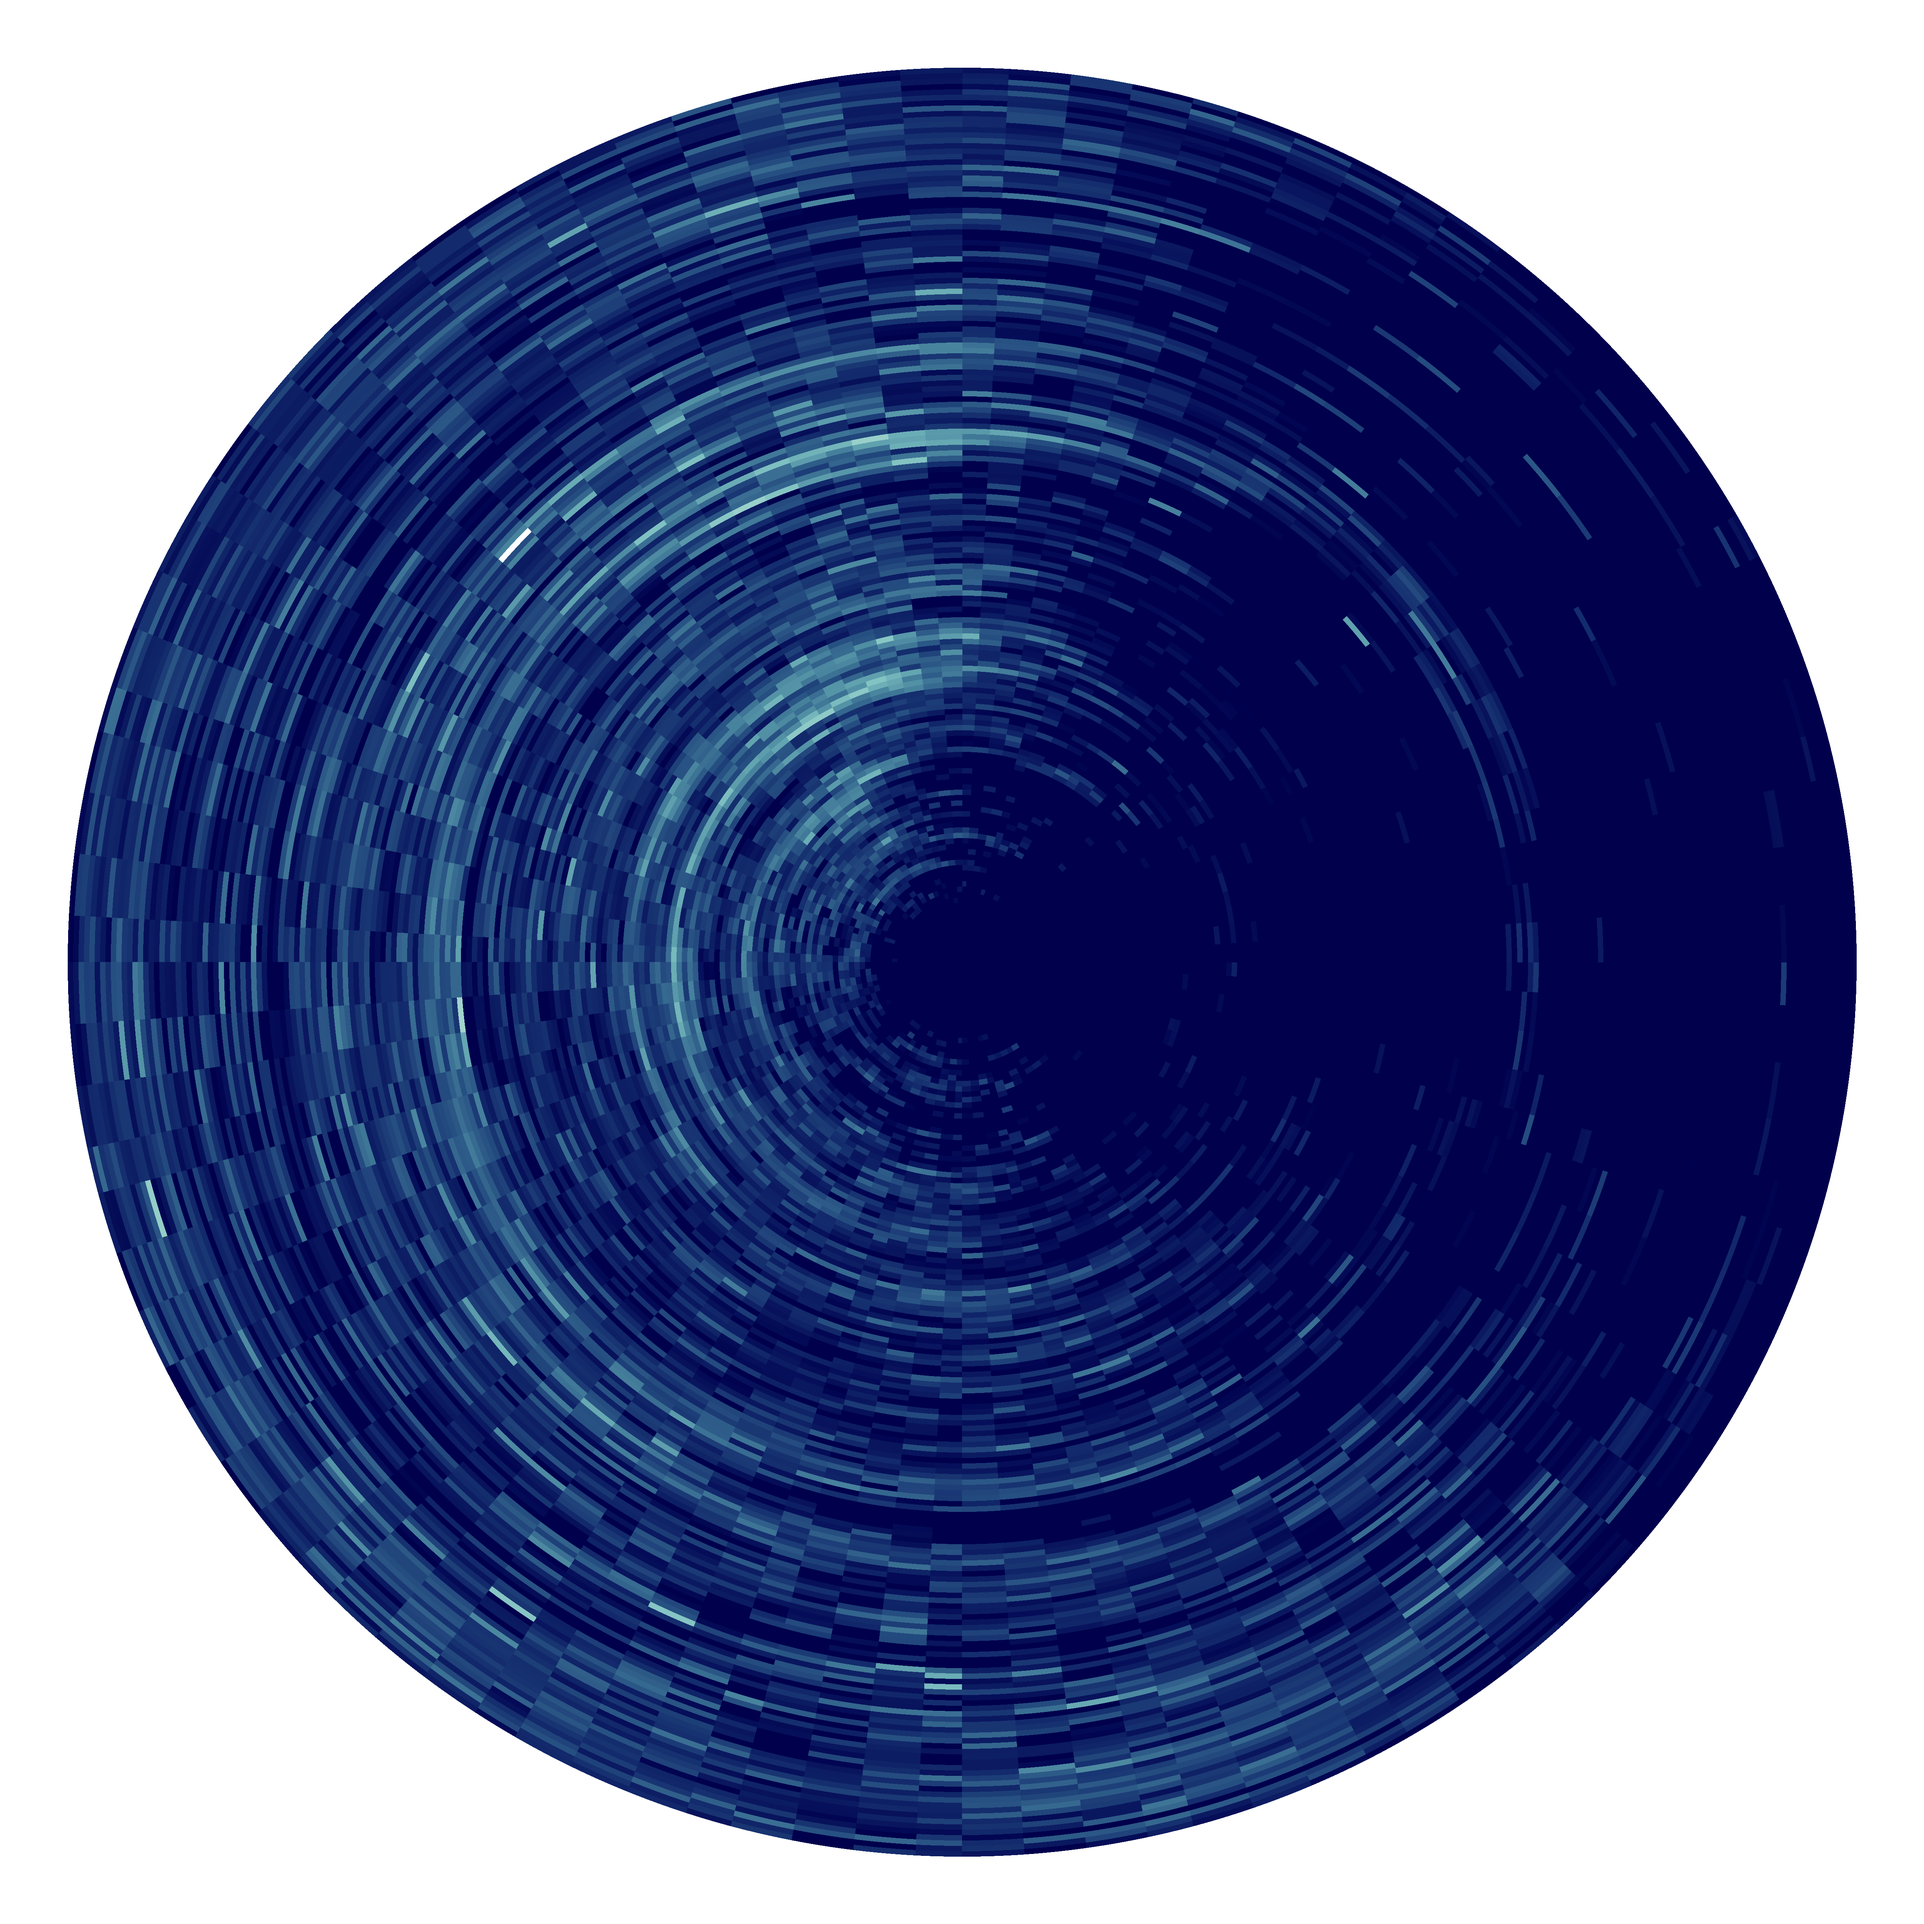
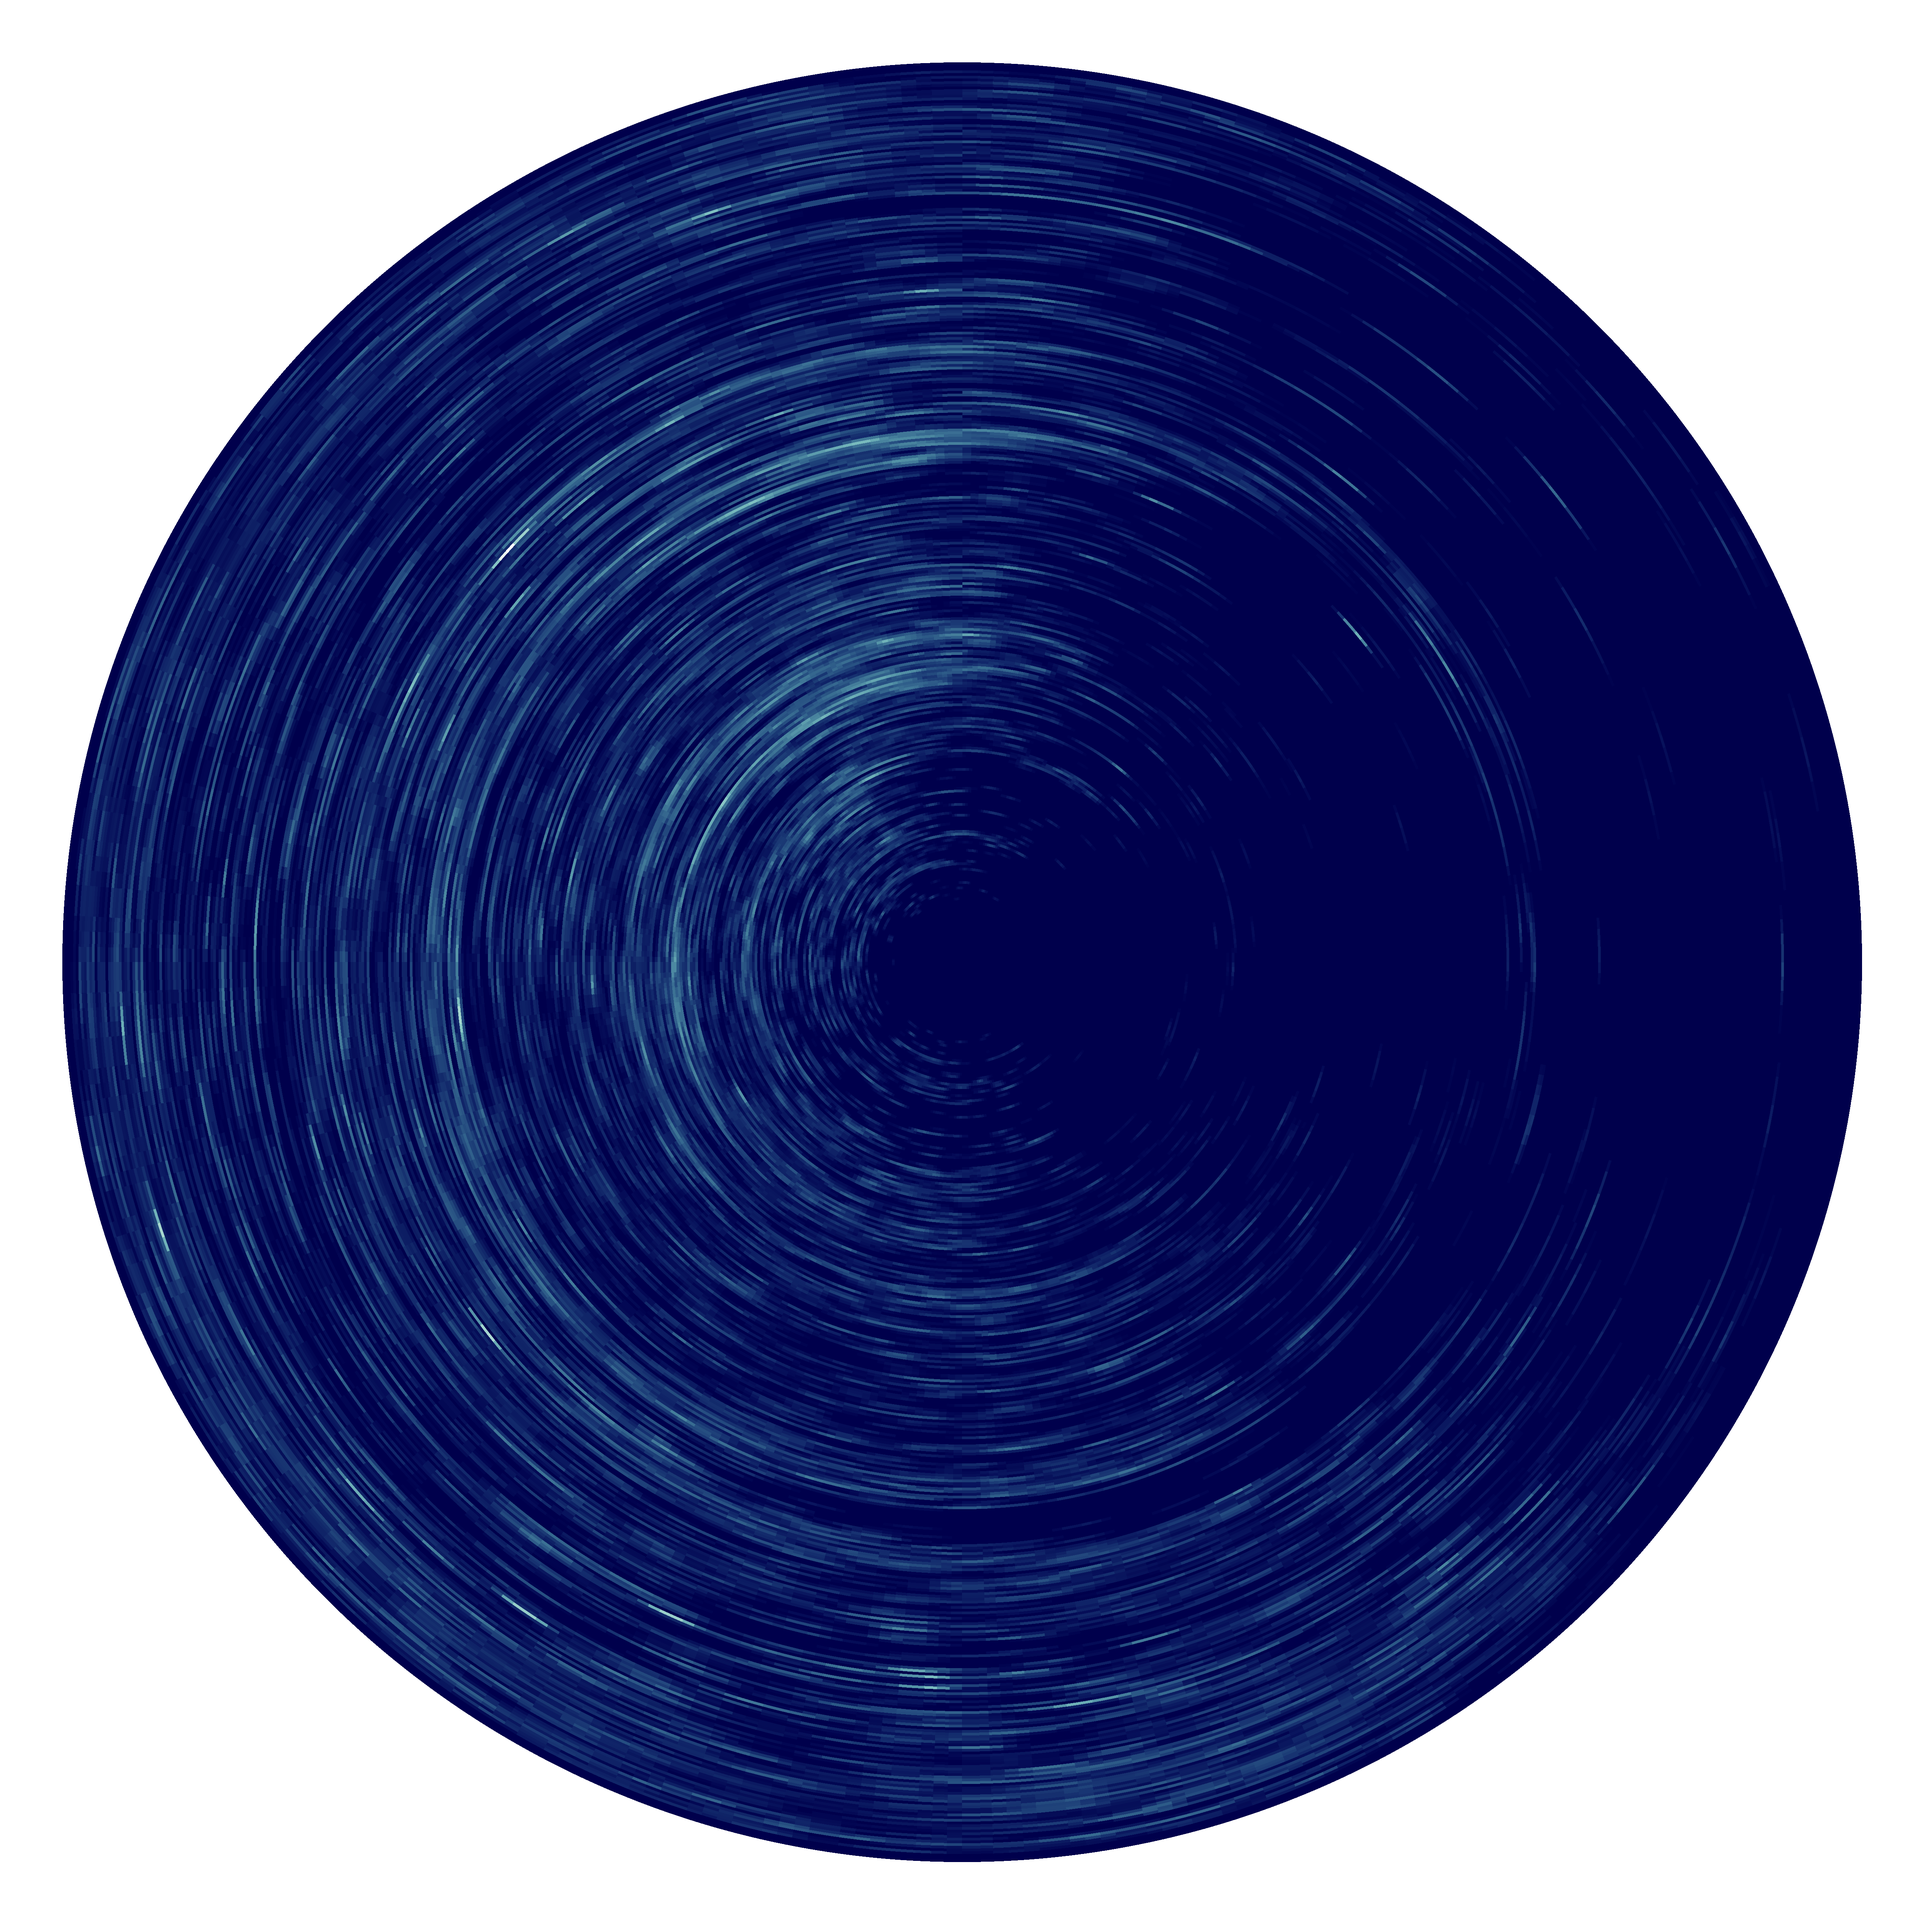
implemented a gaussian filter on the data

diff --git a/code/main.py b/code/main.py
@@ -4,6 +4,7 @@ from fb_HTML_parser import FB_HTMLParser
 import draw
 from datetime import datetime, timedelta
 from helper_fun import *
+from collections import OrderedDict
 import my_excepthook
 
 # The parsed data is saved, only if this is set to True the data will be parsed,
@@ -11,10 +12,16 @@ import my_excepthook
 NEW_PARSER = False
 
 # Number of days to sum up for one circle
-DAYS_PER_CIRCLE = 14
+DAYS_PER_CIRCLE = 7
 
 # Minutes to sum up to one segment of a circle
-DELTA_MINUTES = 15
+DELTA_MINUTES = 5
+
+# Blur of the data, to achieve better visualization
+BLUR = 1.0
+
+# Brightness
+BRIGHTNESS = 0.5
 
 def load_parser(new_parser, user_name):
     if(new_parser):
@@ -52,15 +59,21 @@ if __name__ == "__main__":
 
     data = parser.final_data
 
+    # Blur the data for aussagekrätigere visualization
+    data = gaus_blur(data, BLUR)
+
+    #### Sort data
+    # Get start and end date
     current_date = list(data.keys())[0]
     final_date = list(data.keys())[-1]
 
-    time_delta = timedelta(days=DAYS_PER_CIRCLE)
-    next_date = current_date + time_delta
+    # create variables for iteration over the days
+    day_delta = timedelta(days=DAYS_PER_CIRCLE)
+    next_date = current_date + day_delta
+    size_day = int(24*(60/DELTA_MINUTES))
 
     data_draw = {}
-    size_day = int(24*(60/DELTA_MINUTES))
-    data_draw[current_date] = dict.fromkeys([x*DELTA_MINUTES for x in range(0,size_day)], 0)
+    data_draw[current_date] = OrderedDict.fromkeys([x*DELTA_MINUTES for x in range(0,size_day)], 0)
 
     min_delta = timedelta(minutes=DELTA_MINUTES)
     current_day = current_date  # Start with the earliest date
@@ -70,19 +83,20 @@ if __name__ == "__main__":
         current_day += min_delta
         if current_day >= next_date:
             current_date = next_date
-            next_date += time_delta
-            data_draw[current_date] = dict.fromkeys([x*DELTA_MINUTES for x in range(0, size_day)], 0)
+            next_date += day_delta
+            data_draw[current_date] = OrderedDict.fromkeys([x*DELTA_MINUTES for x in range(0, size_day)], 0)
 
     # Remove last added date
     data_draw.pop(current_date, None)
+
     # Sort dictionary and minutes-dictionaries
     data_draw = OrderedDict(sorted(data_draw.items(), key=lambda t: t[0]))
-    for key, item in data_draw.items():
-        data_draw[key] = OrderedDict(sorted(item.items(), key=lambda t: t[0]))
+    #  for key, item in data_draw.items():
+        #  data_draw[key] = OrderedDict(sorted(item.items(), key=lambda t: t[0]))
 
     #  print("{" + "\n".join("{}: {}".format(k, v) for k, v in data_draw.items()) + "}")
 
-    draw.draw_dates_circle(data_draw, thickness=DAYS_PER_CIRCLE, col_pow=0.2)
+    draw.draw_dates_circle(data_draw, thickness=DAYS_PER_CIRCLE, col_pow=BRIGHTNESS)
 
     ####### Sum up weekdays
     #  data_days = {'Monday': 0, 'Tuesday': 0, 'Wednesday': 0, 'Thursday': 0, 'Friday': 0, 'Saturday': 0, 'Sunday': 0}

diff --git a/code/helper_fun.py b/code/helper_fun.py
@@ -3,6 +3,24 @@ import dateutil.parser
 from datetime import timedelta, datetime
 import pytz
 from collections import OrderedDict
+import numpy as np
+from scipy import ndimage
+
+
+def gaus_blur(data, sigma):
+    # Get data into numpy array
+    array_data = np.asarray(list(data.values()))
+    #  print(array_data)
+
+    # Filter data
+    array_data = ndimage.filters.gaussian_filter(array_data, sigma)
+
+    # Set data again
+    for key, val in zip(data, array_data):
+        data[key] = val
+
+    return data
+
 
 def day_to_minutes(sourcedate):
     minutes = sourcedate.minute
@@ -16,7 +34,7 @@ def add_months(sourcedate,months):
     return sourcedate.replace(year=_year, month=_month)
 
 def hasNumbers(inputString):
-    return bool(re.search(r'\d', inputString))
+    return bool(re.search(r'\d', inumpynputString))
 
 def replaceDE_EN(data):
     data = data[re.search(",", data).start():]
